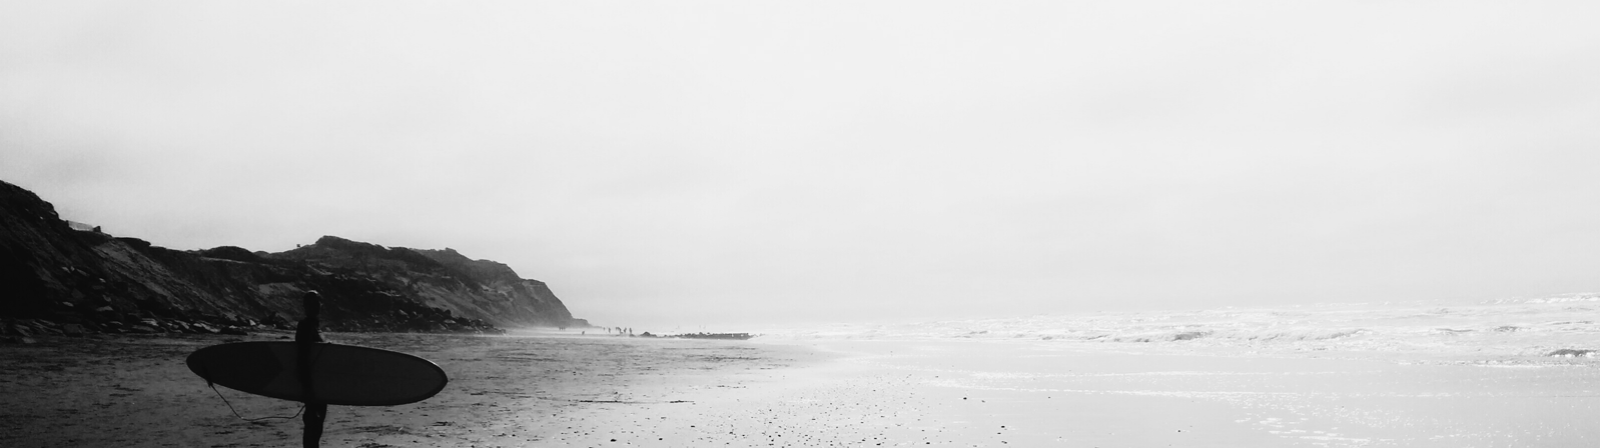
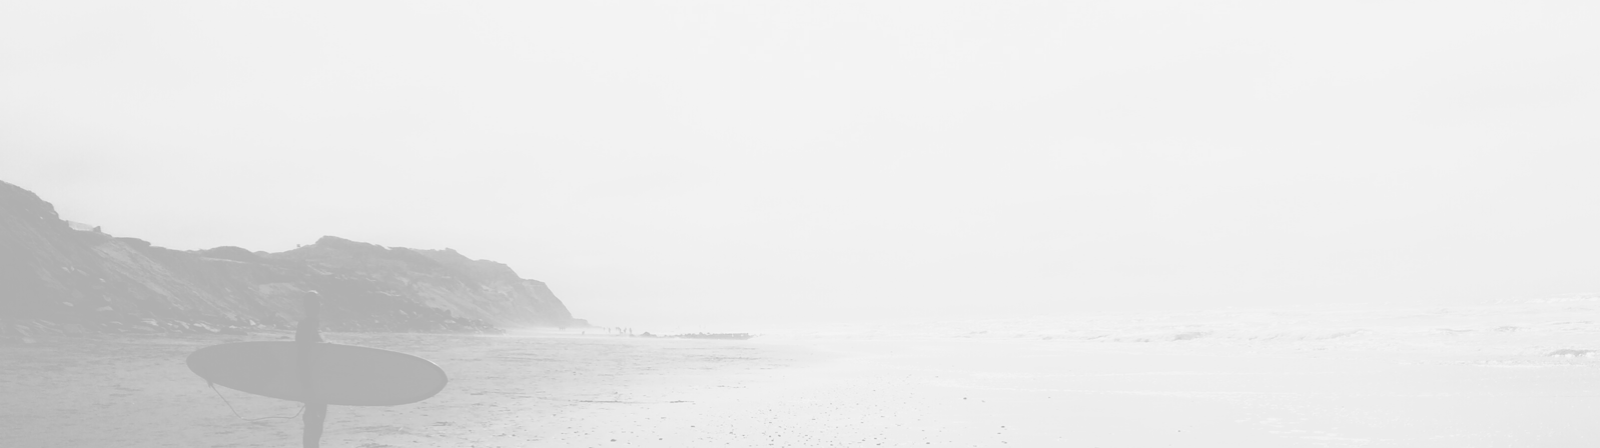
изменили фон в футере

diff --git a/index.html b/index.html
@@ -180,7 +180,7 @@
             <button type="button" class="products__button">Browse All Product</button>
         </section>
         <section class="information">
-                <ul class="information__list ">
+                <ul class="information__list container">
                     <li class="information__item">
                         <img class="information__img" src="./img/car.svg" alt="car">
                         <div></div>
@@ -210,22 +210,24 @@
         </section>
     </main>
     <footer>
-        <div class="subscribe subscribe__container">
-                <div class="subscribe__citation">
-                    <img class="subscribe__img" src="./img/woman_subscribe.jpg" alt="woman" width="145" height="151">
-                    <p class="subscribe__text">“Vestibulum quis porttitor dui! Quisque viverra nunc mi,
-                        <span class="subscribe__text-italic">a pulvinar purus condimentum“</span>
-                    </p>
-                </div>
-                <div class="subscribe__form">
+        <div class="subscribe">
+                <ul class="subscribe__list">
+                    <li class="subscribe__item">
+                        <img class="subscribe__img" src="./img/woman_subscribe.jpg" alt="woman" width="145" height="151">
+                        <p class="subscribe__text">“Vestibulum quis porttitor dui! Quisque <br> viverra nunc mi,
+                            <span class="subscribe__text-italic">a pulvinar purus condimentum“</span>
+                        </p>
+                    </li>
+                    <li class="subscribe__item">
                     <h2 class="subscribe__title">subscribe
                         <span class="subscribe__title-new">for our newletter and promotion</span>
                     </h2>
-                    <form class="form">
-                        <input class="subscribe__send" type="email" placeholder="Enter Your Email">
-                        <input class="subscribe__button" type="submit" value="Subscribe">
-                    </form>
-                </div>
+                        <form class="form">
+                            <input class="subscribe__send" type="email" placeholder="Enter Your Email">
+                            <input class="subscribe__button" type="submit" value="Subscribe">
+                        </form>
+                    </li>
+                </ul>
         </div>
         <div class="social">
             <p class="copy">© 2021 Brand All Rights Reserved.</p>

diff --git a/css/style.css b/css/style.css
@@ -100,13 +100,10 @@ body {
 }
 
 .promotion__list {
-    margin: 0 0 63px;
-}
-
-.promotion__list {
     display: flex;
     justify-content: space-between;
     flex-wrap: wrap;
+    margin: 0 0 63px;
 }
 
 .promotion__item {
@@ -256,16 +253,6 @@ body {
     align-items: center;
     min-height: 341px;
     list-style-type: none;
-    margin-left: -230px;
-    margin-right: -230px;
-}
-
-.information__item {
-    width: 100%;
-}
-
-.information__img {
-    margin: 103px 347px 28px 388px;
 }
 
 .information__title {
@@ -274,7 +261,7 @@ body {
     line-height: 24px;
     color: var(--light-beige-color);
     text-align: center;
-    margin: 28px 255px 16px 347px;
+
 }
 
 .information__text {
@@ -283,29 +270,33 @@ body {
     line-height: 17px;
     color: var(--light-beige-color);
     text-align: center;
-    margin: 16px 30px 104px 230px;
+
 }
 
 .subscribe {
     background-image: url(../img/subscribe.png);
     background-repeat: no-repeat;
     background-size: cover;
-}
-
-.subscribe__container {
-    display: flex;
-    justify-content: space-between;
-    align-items: center;
     min-height: 448px;
 }
 
-.subscribe__citation {
+.subscribe__list {
+    display: flex;
+    justify-content: space-between;
+    align-items: center;
+    list-style-type: none;
+}
+
+.subscribe__item {
+    display: flex;
+    align-items: center;
+    justify-content: center;
     flex-wrap: wrap;
 }
 
 .subscribe__img {
     border-radius: 90%;
-    margin: 87px 340px 20px 327px;
+    margin-top: 87px;
 }
 
 .subscribe__text {
@@ -313,7 +304,6 @@ body {
     font-weight: 400;
     line-height: 24px;
     color: var(--antracite-grey-color);
-    margin: 20px 327px 126px 230px;
     text-align: center;
 }
 
@@ -332,9 +322,9 @@ body {
     font-weight: bold;
     color: var(--antracite-grey-color);
     text-transform: uppercase;
-    margin: 150px 230px 10px 340px;
     display: block;
-
+    text-align: center;
+    margin-top: 150px;
 }
 
 .subscribe__title-new {
@@ -343,13 +333,13 @@ body {
     line-height: 40px;
     color: var(--antracite-grey-color);
     text-transform: uppercase;
+    text-align: center;
     display: block;
 }
 
 .form {
     display: inline-block;
     box-sizing: border-box;
-    margin: 10px 360px 156px 327px;
 }
 
 .subscribe__send {
